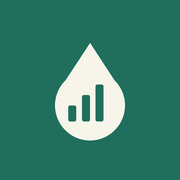
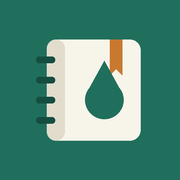
앱 아이콘을 DAIRY DIARY 디자인(링 다이어리 + 우유 방울 + 책갈피)으로 교체
Claude-Session: https://claude.ai/code/session_013ZkpgstzE1RzZdmP9VWB3o

Changed region(s): [[0.1944, 0.1944, 0.8056, 0.8056]]

diff --git a/sw.js b/sw.js
@@ -1,5 +1,5 @@
 // 오프라인 지원: 화면 파일·data JSON 모두 네트워크 우선(새 버전 즉시 반영), 실패 시 캐시
-const CACHE = 'di-v4';
+const CACHE = 'di-v5';
 const ASSETS = ['./', 'index.html', 'styles.css', 'app.js', 'manifest.webmanifest',
   'icons/icon-192.png', 'icons/icon-512.png', 'icons/apple-touch-icon.png', 'icons/favicon-32.png'];
 self.addEventListener('install', (e) => { self.skipWaiting(); e.waitUntil(caches.open(CACHE).then((c) => c.addAll(ASSETS))); });
